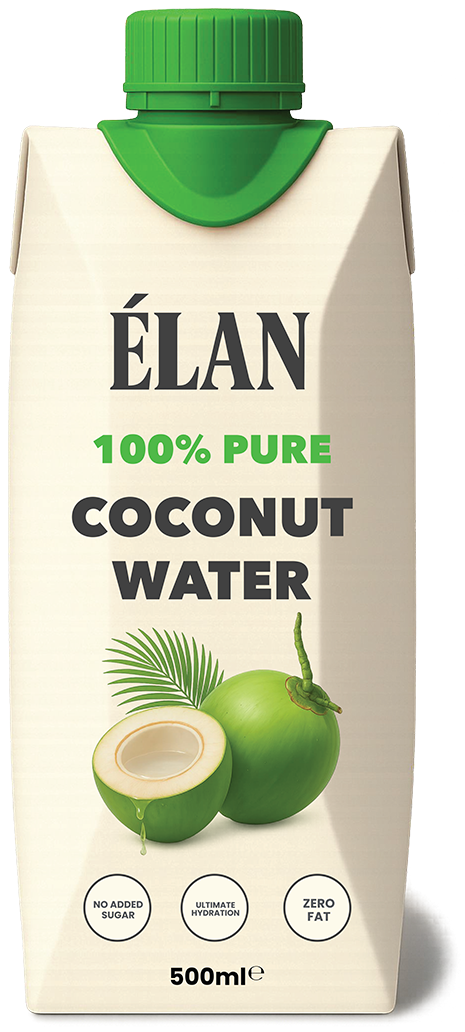
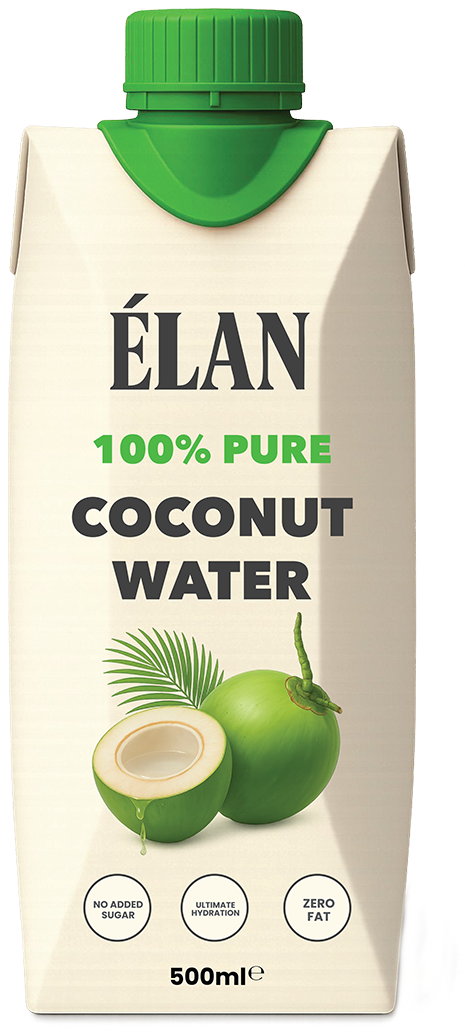
Bottle: bijgewerkte fles-artwork; webp opnieuw gegenereerd + shop op webp
- Nieuwe elan-bottle.png (artwork-update) omgezet naar webp (119 KB, met
  transparantie); hoofdsite gebruikt die al via images.bottle.
- Shop-productfoto's van /elan-bottle.png naar /elan-bottle.webp gezet
  (621 KB -> 119 KB). JSON-LD in index.html blijft PNG voor social scrapers.

Changed region(s): [[0.843, 0.8682, 0.9634, 0.9922]]

diff --git a/src/shop.js b/src/shop.js
@@ -50,7 +50,7 @@ export const products = [
     subtitle: 'Los pak — 100% puur kokoswater',
     price: 2.95,
     unit: 'per pak',
-    image: '/elan-bottle.png',
+    image: '/elan-bottle.webp',
     badge: 'Bestseller',
     buyMode: 'reseller',
     stripePriceId: null,
@@ -71,7 +71,7 @@ export const products = [
     price: 29.95,
     priceCompare: 35.4,
     unit: 'per case (12 stuks)',
-    image: '/elan-bottle.png',
+    image: '/elan-bottle.webp',
     badge: 'Beste deal',
     buyMode: 'preorder',
     stripePriceId: null,
@@ -91,7 +91,7 @@ export const products = [
     subtitle: 'Elke maand vers thuisbezorgd',
     price: 27.95,
     unit: 'per maand — opzegbaar',
-    image: '/elan-bottle.png',
+    image: '/elan-bottle.webp',
     badge: 'Nieuw',
     buyMode: 'preorder',
     stripePriceId: null,
